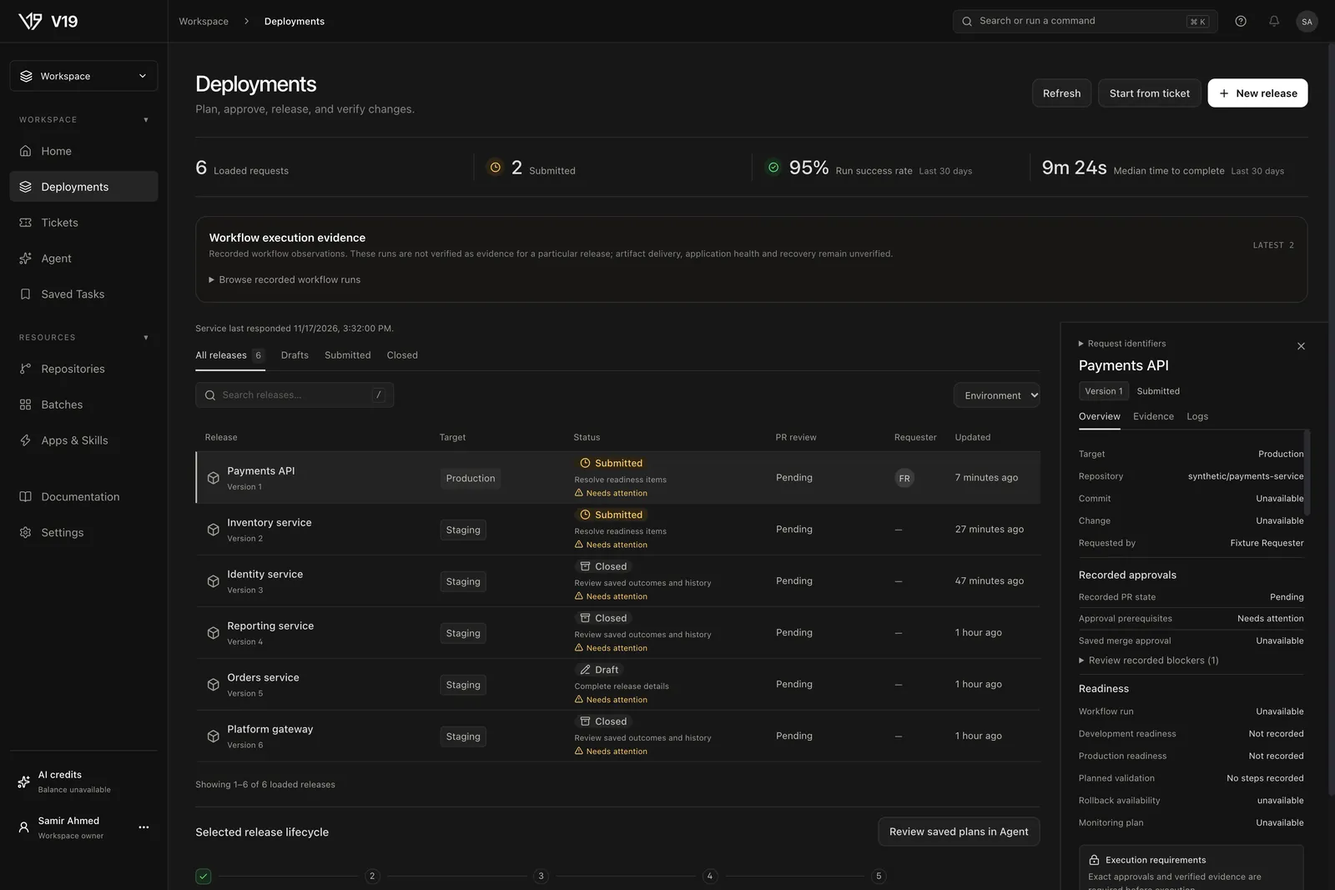
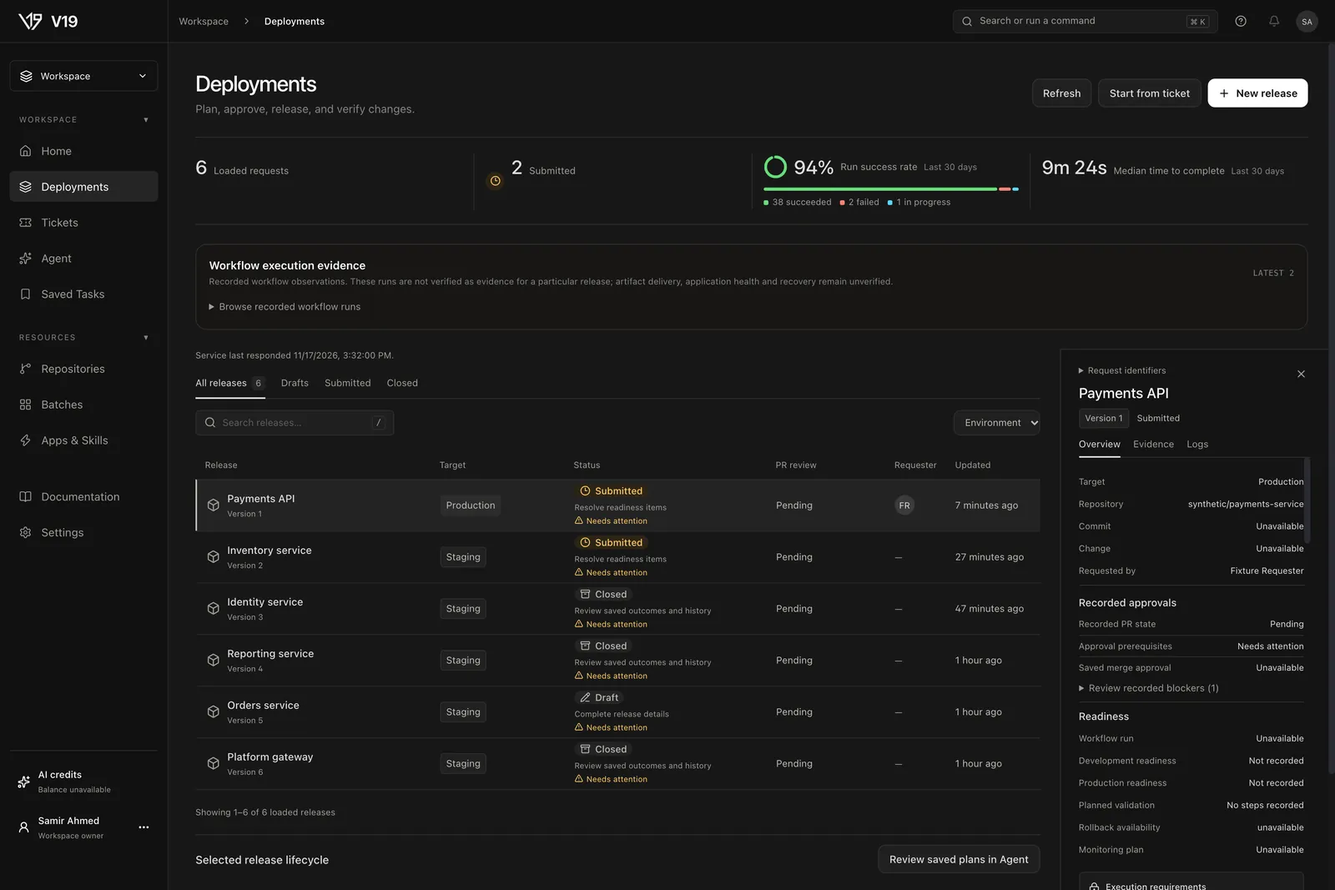
Docs: premium interactions in Surfaces guide and demo; refresh Home and Deployments images

diff --git a/lib/demo/demoScenarios.ts b/lib/demo/demoScenarios.ts
@@ -246,7 +246,7 @@ export const DEMO_SCENARIOS: Readonly<Record<DemoScenarioId, DemoScenario>> = {
     id: "desktop_app_pairing",
     title: "Desktop pairing and integration concept (not available)",
     pitch: "Internal product flow for browser pairing and governed release-tool connections.",
-    description: "Internal-only record retained for product planning. It documents the secure browser handoff and the Integration Center without representing an unsupported customer workflow as available. Credential activation and streamed replies use an aborted-state check that does not require newer WKWebView abort-helper methods; cancellation remains enforced. Rapid conversation selections supersede pending reads; late results cannot replace the latest selection. Tailwind 4 styling now uses scoped CSS-first themes; isolated browser checks cover dark/light token and spacing compatibility, not live pairing or older WebKit acceptance. Local visual source now applies Exact-inspired warm-black and charcoal dark surfaces with neutral brand accents. Sign-in and access-required layouts use scrollable short-window framing, recovery guidance uses readable secondary text, and reviewed workspace controls use neutral surface and focus roles. These presentation changes do not verify rendered native screens or change pairing, permissions, actions, billing or installation. Candidate0.1.23 is prepared separately in source; no installed update or publication is established. Settings offers Invite member after a fresh workspace authority check and opens the independently authenticated browser member page. The Saved Tasks editor shows the recorded draft version. During a version conflict, Review saved version reads history without replacing the editor. Compare with editor shows which stored fields differ. In the local walkthrough, opening history reads draft versions without saving or sending the current text. Refreshing Tickets leaves the inspector empty if its selected ticket cannot be verified in the loaded records. Choose another ticket explicitly to see its details. The Tickets Evidence tab can verify the linked ReleaseOps record and display its tag, status and commit. It opens the verified release record in the browser on request. Evidence can show saved pack metadata and readiness for a verified matching commit. Historical readiness timestamps can remain unverified. With paired GitHub read access, Tickets Evidence links to saved matching workflow runs and compares the linked release commit against a same-environment rollback reference when available. An authorized operator can record that they collected logs for a completed run and reviewed that exact comparison. The checklist shows the saved record for the current incident revision. Agent can review the selected plan’s stored digest and read version-bound approval or execution records without starting an operation. Home shows next actions for loaded draft and submitted releases. Review opens the exact saved version, and returning refreshes Home while preserving the unsent planner. The Repositories directory shows loaded row counts and recorded workflow state. The inspector reads the workflow start time when the registry provides it. The Batches release dependency view shows the selected version and its recorded monitor timing when available. Returning from Airflow retains the dependency search and verifies the original release version again before opening a dependency. If that version is unavailable, a current row must be selected explicitly. Readiness checks distinguish an observed pending run from unavailable evidence. If Airflow cannot confirm readiness, the exact saved declarations can appear as unverified. These carry no provider status or task inspection. An observed run can show exact task timing in UTC. The observed run table reports how many of the selected release’s runs failed after its exact check. Inspect failed run opens task status for the first observed failure. Previous, refresh and retry follow the actual pages loaded, even if a page is short. The result clears if the release changes. Opening a dependency in Deployments provides a return to Batches with its search and exact version preserved. For a submitted dependency requiring PR review, Review approvals opens the exact version’s Merge review without selecting a plan or contacting GitHub. Returning restores the review button’s focus when the version is still available. A dependency outside the recent release directory is reopened only after the read-only exact-version lookup confirms its declared runs. The Batches inspector shows recorded approval prerequisites, PR state, rollback availability and backup evidence requirements for that version. If the same version closes, the Batches inspector retires live readiness and review controls and opens that exact closed release for its recorded evidence. If a check discovers that the saved version closed during observation, refresh the release list before reopening the exact closed record. The check shows no result from the earlier open state. A closure confirmed by either readiness or monitoring retires the other control's evidence and actions for that exact version until the release list refreshes. The refreshed list places closed dependencies under History and keeps the exact version and recorded UTC closure time when available. History reads pages of stored closed dependencies, skipping the releases already in the recent list. A release whose saved PR review is inapplicable omits the merge-review shortcut. Approval and recovery actions use the existing release workspace. If the version changes, the return shows the unavailable notice before a new version can be opened. The dependency rail keeps search readable at the minimum desktop window size. The observed run table reserves enough space for status labels next to workflow and timing columns. The slash shortcut continues to work when the narrow rail hides its visual hint. Clearing a search that hides the selected dependency restores the exact release and its current detail section. An observed version change still requires an explicit selection. Release approval remains in Deployments. The Batches workflow map links from task inspection to the guide for opening the saved release’s Logs in Deployments. The selected release distinguishes a request without PR review from one ready for merge review. A saved merge decision stays scoped to its selected release and does not confer deployment authority. Opening release details brings the heading into view in compact windows. Escape returns focus to the selected release. The Apps & Skills drawer shows reported connector or skill status and recorded validation or installation evidence when available. The catalogue and GitHub drawer show the recorded installation check and repository selection when available. The timestamp describes a saved observation. Inspecting a row does not initiate consent or authorize an action. Documentation offers an outline before the guide at compact widths. Returning from an unsent Agent handoff restores focus to the original button and retains the selected source. Settings presents verified account and workspace facts beside the existing permission and preference controls. A slash opens section search and the overview links route to the existing Profile and Plan & usage views. The desktop sidebar keeps the selected destination visible when navigation opens it from the command palette. Workspace and Resources use readable expand and collapse indicators in both themes. Workspace identity is disclosed on demand. The Home context picker can close from its Done button, restoring focus to the opening chip and retaining the draft and selection. If a Deployments refresh can no longer verify a saved release version, the notice preserves focus when the user has moved to another control. Review a current release explicitly before continuing. Recorded merge approval history identifies the selected plan’s pull request and appears in the Approve step after an explicit read. A recorded decision does not establish current release-wide approval. Deployments shows the latest recorded execution event after reading history for a selected exact plan. A workflow request acknowledgment stays distinct from verified deployment health. The release directory shows six rows per page and searches all loaded releases. Opening an exact saved release reveals its page and preserves drafts across page changes. When the release is outside the recent directory, a scoped read loads only its matching current version. An unavailable or changed version retains the existing recovery view. The lifecycle marks a submitted Plan and lists planned validation separately from a recorded deferral. An exact saved workflow result can appear under Deploy. Verify reports unavailable observation even when a monitoring plan is recorded. Overview opens the selected release version’s Merge review without contacting GitHub. Overview guides a ready release to the required review of its exact version. Refresh withholds prior approval and recovery guidance until that release is verified again. Overview directs unconfirmed dispatches to their exact execution history. When a matching workflow outcome is available, Overview points to that run and separates workflow success from application and artifact verification. Recorded details stay unavailable during refresh. The Agent plan heading names the selected merge plan when its exact record loads, while keeping the same keyboard focus. The Agent Approval Center stays under Recorded release details. The Jira and ServiceNow lifecycle panels verify the current workspace and credential before reading saved actions or starting a ticket action. Results from a replaced workspace cannot update the panel. A governed change ticket can show verified release records in the browser. Missing or older links are reported as incomplete. Tickets resolves the selected incident’s saved release under existing pipeline read authority. It displays recorded facts in place, preserving the ticket search and focus. Tickets can prepare an unsent Agent remediation draft from a verified open incident and its exact linked release record, with the recorded tag and commit when available. Returning to Tickets retains the search and original action. The Tickets Open filter counts loaded cases when both sources are available. The Owner filter and My work use actual saved incident assignments. Apply recorded status, application, and environment in Filters to narrow the loaded list alongside search, priority, and owner. Incident Overview shows a saved triage response target, including whether it is suggested, accepted, or based on a priority override. Eligible paired operators can set a current workspace member as owner without changing incident status. Tab reaches the selected case, Arrow keys move within the list, and Enter opens the details. Agent shows a distinct unavailable history state for an incomplete saved-plan record. In the three-pane workspace the composer has a compact Send control with its accessible name and keyboard guidance. Saved Tasks version history now identifies the editor base and newer saved versions. History shortcuts focus the version history or the selected immutable version, with Escape returning to the opener. Older history accepts only records below its requested cursor, and inspecting history preserves unsent text. The repository directory makes loaded workflow counts available to assistive technology. Its compact pager retains keyboard focus at either end, and Inspect opens the selected registered repository. Batches retains keyboard focus while checking a selected dependency and clears the previous monitor evidence while a new version-bound read is pending. The release approval path stays in Deployments. Returning from release review restores the exact batch, its Approvals navigation state and focus on Review approvals. If that return cannot verify the directory, the error gets focus and refreshing can restore the same section and action after the exact version is verified. Apps & Skills shows the reported status at the top of the inspector and the recorded validation time for scoped read-only cloud connections when available. Documentation exposes the exact selected section link in the reader toolbar, with a selectable fallback beside the copy control. The lifecycle marks the step selected for focus and Agent context. Settings keeps the accepted member preview bound to the current account and workspace, and View permissions remains available beside that preview. Installed native acceptance remains separate. In Deployments Evidence, the request-wide operation ledger states it is not bound to the selected version or attempt, and an empty ledger does not show whether a dispatch occurred. Read recorded workflow commit names why one exact attempt is unavailable (read failure, incomplete evidence, no acknowledged dispatch, a missing run receipt, no matching or multiple matching observations), and Logs repeats that reason with Review workflow evidence. Evidence, Overview and Logs times share one UTC format. Recover saved deployment record is offered only while a dispatch is in progress. Home recent activity can be filtered by request state without another read, and Apps & Skills shows the viewer's role and each provider's verified access with relative check times. Home summarizes 30 days of recorded workflow runs with a daily trend and change against the previous window, and explains the five-stage release pipeline. Deployments workflow runs show recorded dispatch, last observation and completion with elapsed time, and recorded execution and approval histories show elapsed time from the first recorded step. Batches draws saved Airflow automation dependencies as configured edges, not live readiness.",
+    description: "Internal-only record retained for product planning. It documents the secure browser handoff and the Integration Center without representing an unsupported customer workflow as available. Credential activation and streamed replies use an aborted-state check that does not require newer WKWebView abort-helper methods; cancellation remains enforced. Rapid conversation selections supersede pending reads; late results cannot replace the latest selection. Tailwind 4 styling now uses scoped CSS-first themes; isolated browser checks cover dark/light token and spacing compatibility, not live pairing or older WebKit acceptance. Local visual source now applies Exact-inspired warm-black and charcoal dark surfaces with neutral brand accents. Sign-in and access-required layouts use scrollable short-window framing, recovery guidance uses readable secondary text, and reviewed workspace controls use neutral surface and focus roles. These presentation changes do not verify rendered native screens or change pairing, permissions, actions, billing or installation. Candidate0.1.23 is prepared separately in source; no installed update or publication is established. Settings offers Invite member after a fresh workspace authority check and opens the independently authenticated browser member page. The Saved Tasks editor shows the recorded draft version. During a version conflict, Review saved version reads history without replacing the editor. Compare with editor shows which stored fields differ. In the local walkthrough, opening history reads draft versions without saving or sending the current text. Refreshing Tickets leaves the inspector empty if its selected ticket cannot be verified in the loaded records. Choose another ticket explicitly to see its details. The Tickets Evidence tab can verify the linked ReleaseOps record and display its tag, status and commit. It opens the verified release record in the browser on request. Evidence can show saved pack metadata and readiness for a verified matching commit. Historical readiness timestamps can remain unverified. With paired GitHub read access, Tickets Evidence links to saved matching workflow runs and compares the linked release commit against a same-environment rollback reference when available. An authorized operator can record that they collected logs for a completed run and reviewed that exact comparison. The checklist shows the saved record for the current incident revision. Agent can review the selected plan’s stored digest and read version-bound approval or execution records without starting an operation. Home shows next actions for loaded draft and submitted releases. Review opens the exact saved version, and returning refreshes Home while preserving the unsent planner. The Repositories directory shows loaded row counts and recorded workflow state. The inspector reads the workflow start time when the registry provides it. The Batches release dependency view shows the selected version and its recorded monitor timing when available. Returning from Airflow retains the dependency search and verifies the original release version again before opening a dependency. If that version is unavailable, a current row must be selected explicitly. Readiness checks distinguish an observed pending run from unavailable evidence. If Airflow cannot confirm readiness, the exact saved declarations can appear as unverified. These carry no provider status or task inspection. An observed run can show exact task timing in UTC. The observed run table reports how many of the selected release’s runs failed after its exact check. Inspect failed run opens task status for the first observed failure. Previous, refresh and retry follow the actual pages loaded, even if a page is short. The result clears if the release changes. Opening a dependency in Deployments provides a return to Batches with its search and exact version preserved. For a submitted dependency requiring PR review, Review approvals opens the exact version’s Merge review without selecting a plan or contacting GitHub. Returning restores the review button’s focus when the version is still available. A dependency outside the recent release directory is reopened only after the read-only exact-version lookup confirms its declared runs. The Batches inspector shows recorded approval prerequisites, PR state, rollback availability and backup evidence requirements for that version. If the same version closes, the Batches inspector retires live readiness and review controls and opens that exact closed release for its recorded evidence. If a check discovers that the saved version closed during observation, refresh the release list before reopening the exact closed record. The check shows no result from the earlier open state. A closure confirmed by either readiness or monitoring retires the other control's evidence and actions for that exact version until the release list refreshes. The refreshed list places closed dependencies under History and keeps the exact version and recorded UTC closure time when available. History reads pages of stored closed dependencies, skipping the releases already in the recent list. A release whose saved PR review is inapplicable omits the merge-review shortcut. Approval and recovery actions use the existing release workspace. If the version changes, the return shows the unavailable notice before a new version can be opened. The dependency rail keeps search readable at the minimum desktop window size. The observed run table reserves enough space for status labels next to workflow and timing columns. The slash shortcut continues to work when the narrow rail hides its visual hint. Clearing a search that hides the selected dependency restores the exact release and its current detail section. An observed version change still requires an explicit selection. Release approval remains in Deployments. The Batches workflow map links from task inspection to the guide for opening the saved release’s Logs in Deployments. The selected release distinguishes a request without PR review from one ready for merge review. A saved merge decision stays scoped to its selected release and does not confer deployment authority. Opening release details brings the heading into view in compact windows. Escape returns focus to the selected release. The Apps & Skills drawer shows reported connector or skill status and recorded validation or installation evidence when available. The catalogue and GitHub drawer show the recorded installation check and repository selection when available. The timestamp describes a saved observation. Inspecting a row does not initiate consent or authorize an action. Documentation offers an outline before the guide at compact widths. Returning from an unsent Agent handoff restores focus to the original button and retains the selected source. Settings presents verified account and workspace facts beside the existing permission and preference controls. A slash opens section search and the overview links route to the existing Profile and Plan & usage views. The desktop sidebar keeps the selected destination visible when navigation opens it from the command palette. Workspace and Resources use readable expand and collapse indicators in both themes. Workspace identity is disclosed on demand. The Home context picker can close from its Done button, restoring focus to the opening chip and retaining the draft and selection. If a Deployments refresh can no longer verify a saved release version, the notice preserves focus when the user has moved to another control. Review a current release explicitly before continuing. Recorded merge approval history identifies the selected plan’s pull request and appears in the Approve step after an explicit read. A recorded decision does not establish current release-wide approval. Deployments shows the latest recorded execution event after reading history for a selected exact plan. A workflow request acknowledgment stays distinct from verified deployment health. The release directory shows six rows per page and searches all loaded releases. Opening an exact saved release reveals its page and preserves drafts across page changes. When the release is outside the recent directory, a scoped read loads only its matching current version. An unavailable or changed version retains the existing recovery view. The lifecycle marks a submitted Plan and lists planned validation separately from a recorded deferral. An exact saved workflow result can appear under Deploy. Verify reports unavailable observation even when a monitoring plan is recorded. Overview opens the selected release version’s Merge review without contacting GitHub. Overview guides a ready release to the required review of its exact version. Refresh withholds prior approval and recovery guidance until that release is verified again. Overview directs unconfirmed dispatches to their exact execution history. When a matching workflow outcome is available, Overview points to that run and separates workflow success from application and artifact verification. Recorded details stay unavailable during refresh. The Agent plan heading names the selected merge plan when its exact record loads, while keeping the same keyboard focus. The Agent Approval Center stays under Recorded release details. The Jira and ServiceNow lifecycle panels verify the current workspace and credential before reading saved actions or starting a ticket action. Results from a replaced workspace cannot update the panel. A governed change ticket can show verified release records in the browser. Missing or older links are reported as incomplete. Tickets resolves the selected incident’s saved release under existing pipeline read authority. It displays recorded facts in place, preserving the ticket search and focus. Tickets can prepare an unsent Agent remediation draft from a verified open incident and its exact linked release record, with the recorded tag and commit when available. Returning to Tickets retains the search and original action. The Tickets Open filter counts loaded cases when both sources are available. The Owner filter and My work use actual saved incident assignments. Apply recorded status, application, and environment in Filters to narrow the loaded list alongside search, priority, and owner. Incident Overview shows a saved triage response target, including whether it is suggested, accepted, or based on a priority override. Eligible paired operators can set a current workspace member as owner without changing incident status. Tab reaches the selected case, Arrow keys move within the list, and Enter opens the details. Agent shows a distinct unavailable history state for an incomplete saved-plan record. In the three-pane workspace the composer has a compact Send control with its accessible name and keyboard guidance. Saved Tasks version history now identifies the editor base and newer saved versions. History shortcuts focus the version history or the selected immutable version, with Escape returning to the opener. Older history accepts only records below its requested cursor, and inspecting history preserves unsent text. The repository directory makes loaded workflow counts available to assistive technology. Its compact pager retains keyboard focus at either end, and Inspect opens the selected registered repository. Batches retains keyboard focus while checking a selected dependency and clears the previous monitor evidence while a new version-bound read is pending. The release approval path stays in Deployments. Returning from release review restores the exact batch, its Approvals navigation state and focus on Review approvals. If that return cannot verify the directory, the error gets focus and refreshing can restore the same section and action after the exact version is verified. Apps & Skills shows the reported status at the top of the inspector and the recorded validation time for scoped read-only cloud connections when available. Documentation exposes the exact selected section link in the reader toolbar, with a selectable fallback beside the copy control. The lifecycle marks the step selected for focus and Agent context. Settings keeps the accepted member preview bound to the current account and workspace, and View permissions remains available beside that preview. Installed native acceptance remains separate. In Deployments Evidence, the request-wide operation ledger states it is not bound to the selected version or attempt, and an empty ledger does not show whether a dispatch occurred. Read recorded workflow commit names why one exact attempt is unavailable (read failure, incomplete evidence, no acknowledged dispatch, a missing run receipt, no matching or multiple matching observations), and Logs repeats that reason with Review workflow evidence. Evidence, Overview and Logs times share one UTC format. Recover saved deployment record is offered only while a dispatch is in progress. Home recent activity can be filtered by request state without another read, and Apps & Skills shows the viewer's role and each provider's verified access with relative check times. Home summarizes 30 days of recorded workflow runs with a daily trend and change against the previous window, and explains the five-stage release pipeline. Deployments workflow runs show recorded dispatch, last observation and completion with elapsed time, and recorded execution and approval histories show elapsed time from the first recorded step. Batches draws saved Airflow automation dependencies as configured edges, not live readiness; hovering or focusing a DAG traces its path, and the graph pans and zooms. The Home trend reads each day with the pointer or arrow keys, and motion is skipped when reduced motion is requested.",
     estimatedMinutes: 6,
     audience: "internal_only",
     lastReviewed: "2026-11-26",

diff --git a/app/docs/surfaces/page.tsx b/app/docs/surfaces/page.tsx
@@ -9,9 +9,9 @@ const DESTINATIONS=[
  {name:'Tickets',image:'/docs/desktop/tickets.webp',purpose:'Inspect recorded deployment incidents and change tickets in the workspace.',next:'Open the selected record. Use the source ticket and exact release version to confirm what the available action applies to.'},
  {name:'Agent',image:'/docs/desktop/agent.webp',purpose:'Work with code, local files and research through the Agent conversation. Recorded execution and approval histories for a saved plan show elapsed time from the first recorded step.',next:'Inspect the proposed tool and its scope. For a change, follow the exact review and execution controls available in your version.'},
  {name:'Saved Tasks',image:'/docs/desktop/saved-tasks.webp',purpose:'Describe an outcome, keep a saved task, request an AI response or open reviewed app actions.',next:'Check which task owns the response or action. In versions that show it, each task in the list shows its last recorded run (AI task, readiness run or pull request evidence), with the stored status, whether it ran on the current version or an earlier one, and the date, or No recorded runs. In the task details, Show runs lists the task’s recent recorded runs, newest first, each with its stored status and the version it ran on. Saving a task or receiving an AI response does not authorize a provider action.'},
- {name:'Deployments',image:'/docs/desktop/deployments.webp',purpose:'Find release requests, their plans, exact action reviews and available outcome evidence. In versions that show them, the summary row adds the run success rate and median time to complete over the last 30 days, counted only from recorded workflow runs; it says Unavailable rather than guessing. Each recorded workflow run shows when it was dispatched, last observed and completed, with the elapsed time between saved timestamps.',next:'Start with the request’s next required step. The authorized requester and independent reviewer have different responsibilities; a dispatch acknowledgment is not application-health evidence.'},
+ {name:'Deployments',image:'/docs/desktop/deployments.webp',purpose:'Find release requests, their plans, exact action reviews and available outcome evidence. In versions that show them, the summary row adds the run success rate and median time to complete over the last 30 days, counted only from recorded workflow runs; it says Unavailable rather than guessing. Each recorded workflow run shows when it was dispatched, last observed and completed, with the elapsed time between saved timestamps. The success-rate ring and bar split recorded runs into succeeded, failed and in progress.',next:'Start with the request’s next required step. The authorized requester and independent reviewer have different responsibilities; a dispatch acknowledgment is not application-health evidence.'},
  {name:'Repositories',image:'/docs/desktop/repositories.webp',purpose:'Select and inspect repository context and use the available local or connected repository controls.',next:'Check the repository, branch and file before editing or proposing a write. Viewing code does not grant commit, push or merge authority.'},
- {name:'Batches',image:'/docs/desktop/batches.webp',purpose:'Inspect supported Airflow workflows, runs and their available automation controls. Under Automations, a graph shows which upstream DAGs each saved automation waits for. It draws saved configuration, not live readiness, and paused automations appear dashed.',next:'Check the configured connection and source run first. The Batches label does not imply that other orchestration services are connected or supported.'},
+ {name:'Batches',image:'/docs/desktop/batches.webp',purpose:'Inspect supported Airflow workflows, runs and their available automation controls. Under Automations, a graph shows which upstream DAGs each saved automation waits for. It draws saved configuration, not live readiness, and paused automations appear dashed. Hover or focus a DAG to trace its path; drag to pan and use the zoom buttons or Ctrl and scroll to zoom.',next:'Check the configured connection and source run first. The Batches label does not imply that other orchestration services are connected or supported.'},
  {name:'Apps & Skills',image:'/docs/desktop/apps-and-skills.webp',purpose:'Browse connected-app entries and reusable skills, and open the relevant setup or workflow.',next:'Separate a catalogue entry from a validated connection. A skill is reusable guidance, not a permission grant. Setup may require a workspace administrator.'},
  {name:'Documentation',image:'/docs/desktop/documentation.webp',purpose:'Read operating guides and explore the workflow map in the desktop Documentation view.',next:'Choose the guide for your installed version and task. Reading documentation does not change a workspace or run an operation.'},
  {name:'Settings',image:'/docs/desktop/settings.webp',purpose:'Manage the settings and connection controls available to your current account.',next:'Read the exact scope and required permission before changing a setting or starting provider consent. Ask the authorized administrator when setup is blocked.'},
